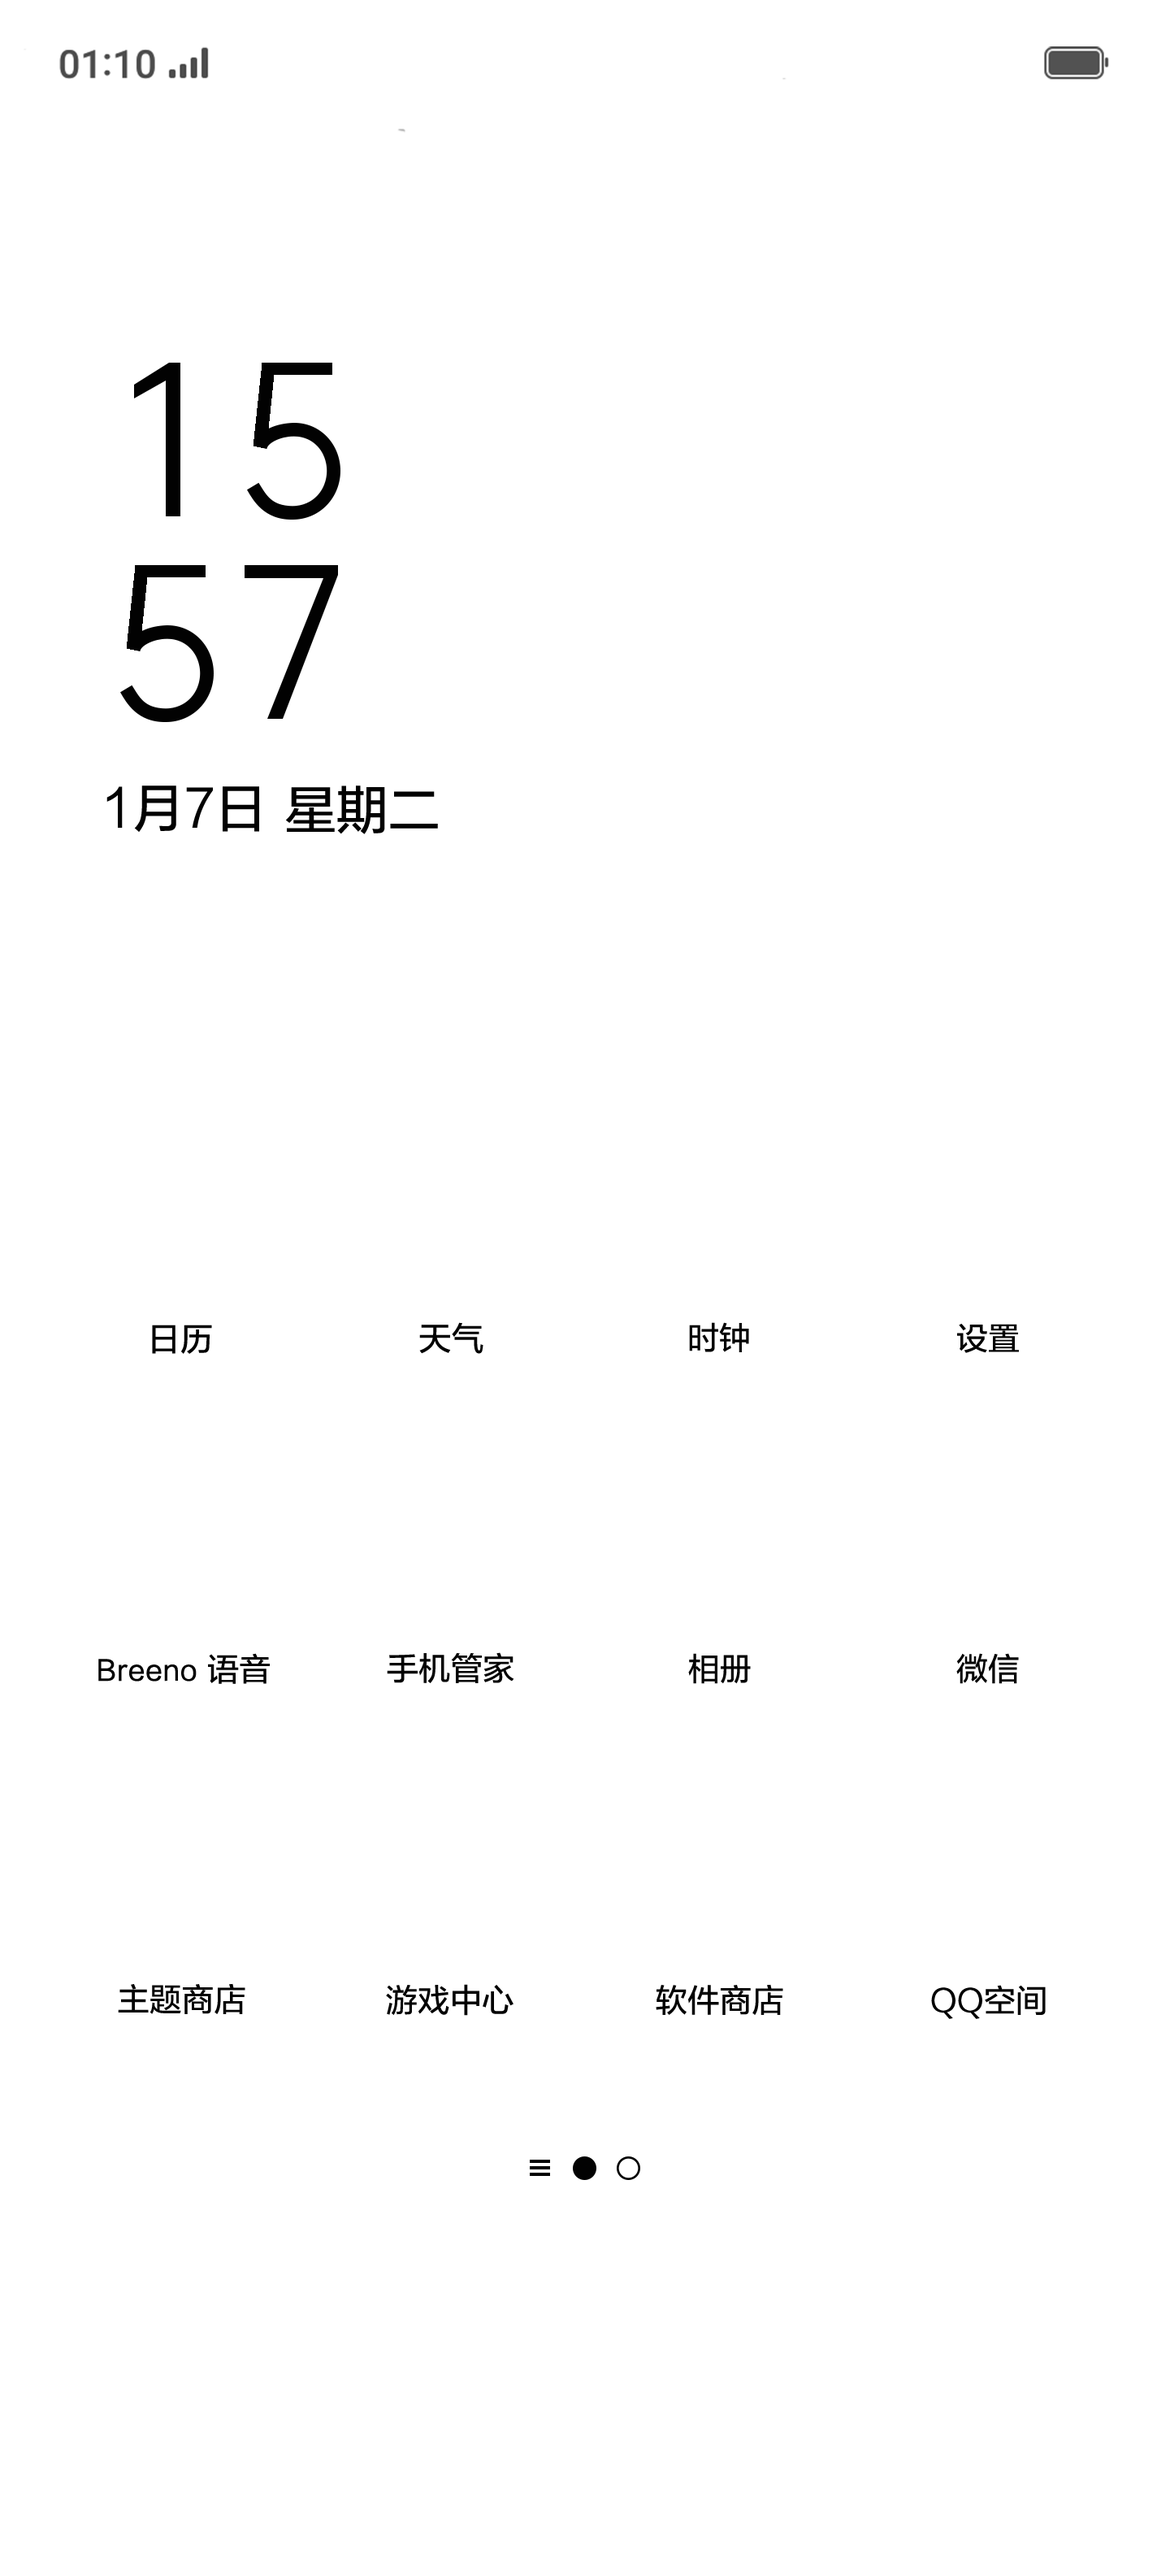
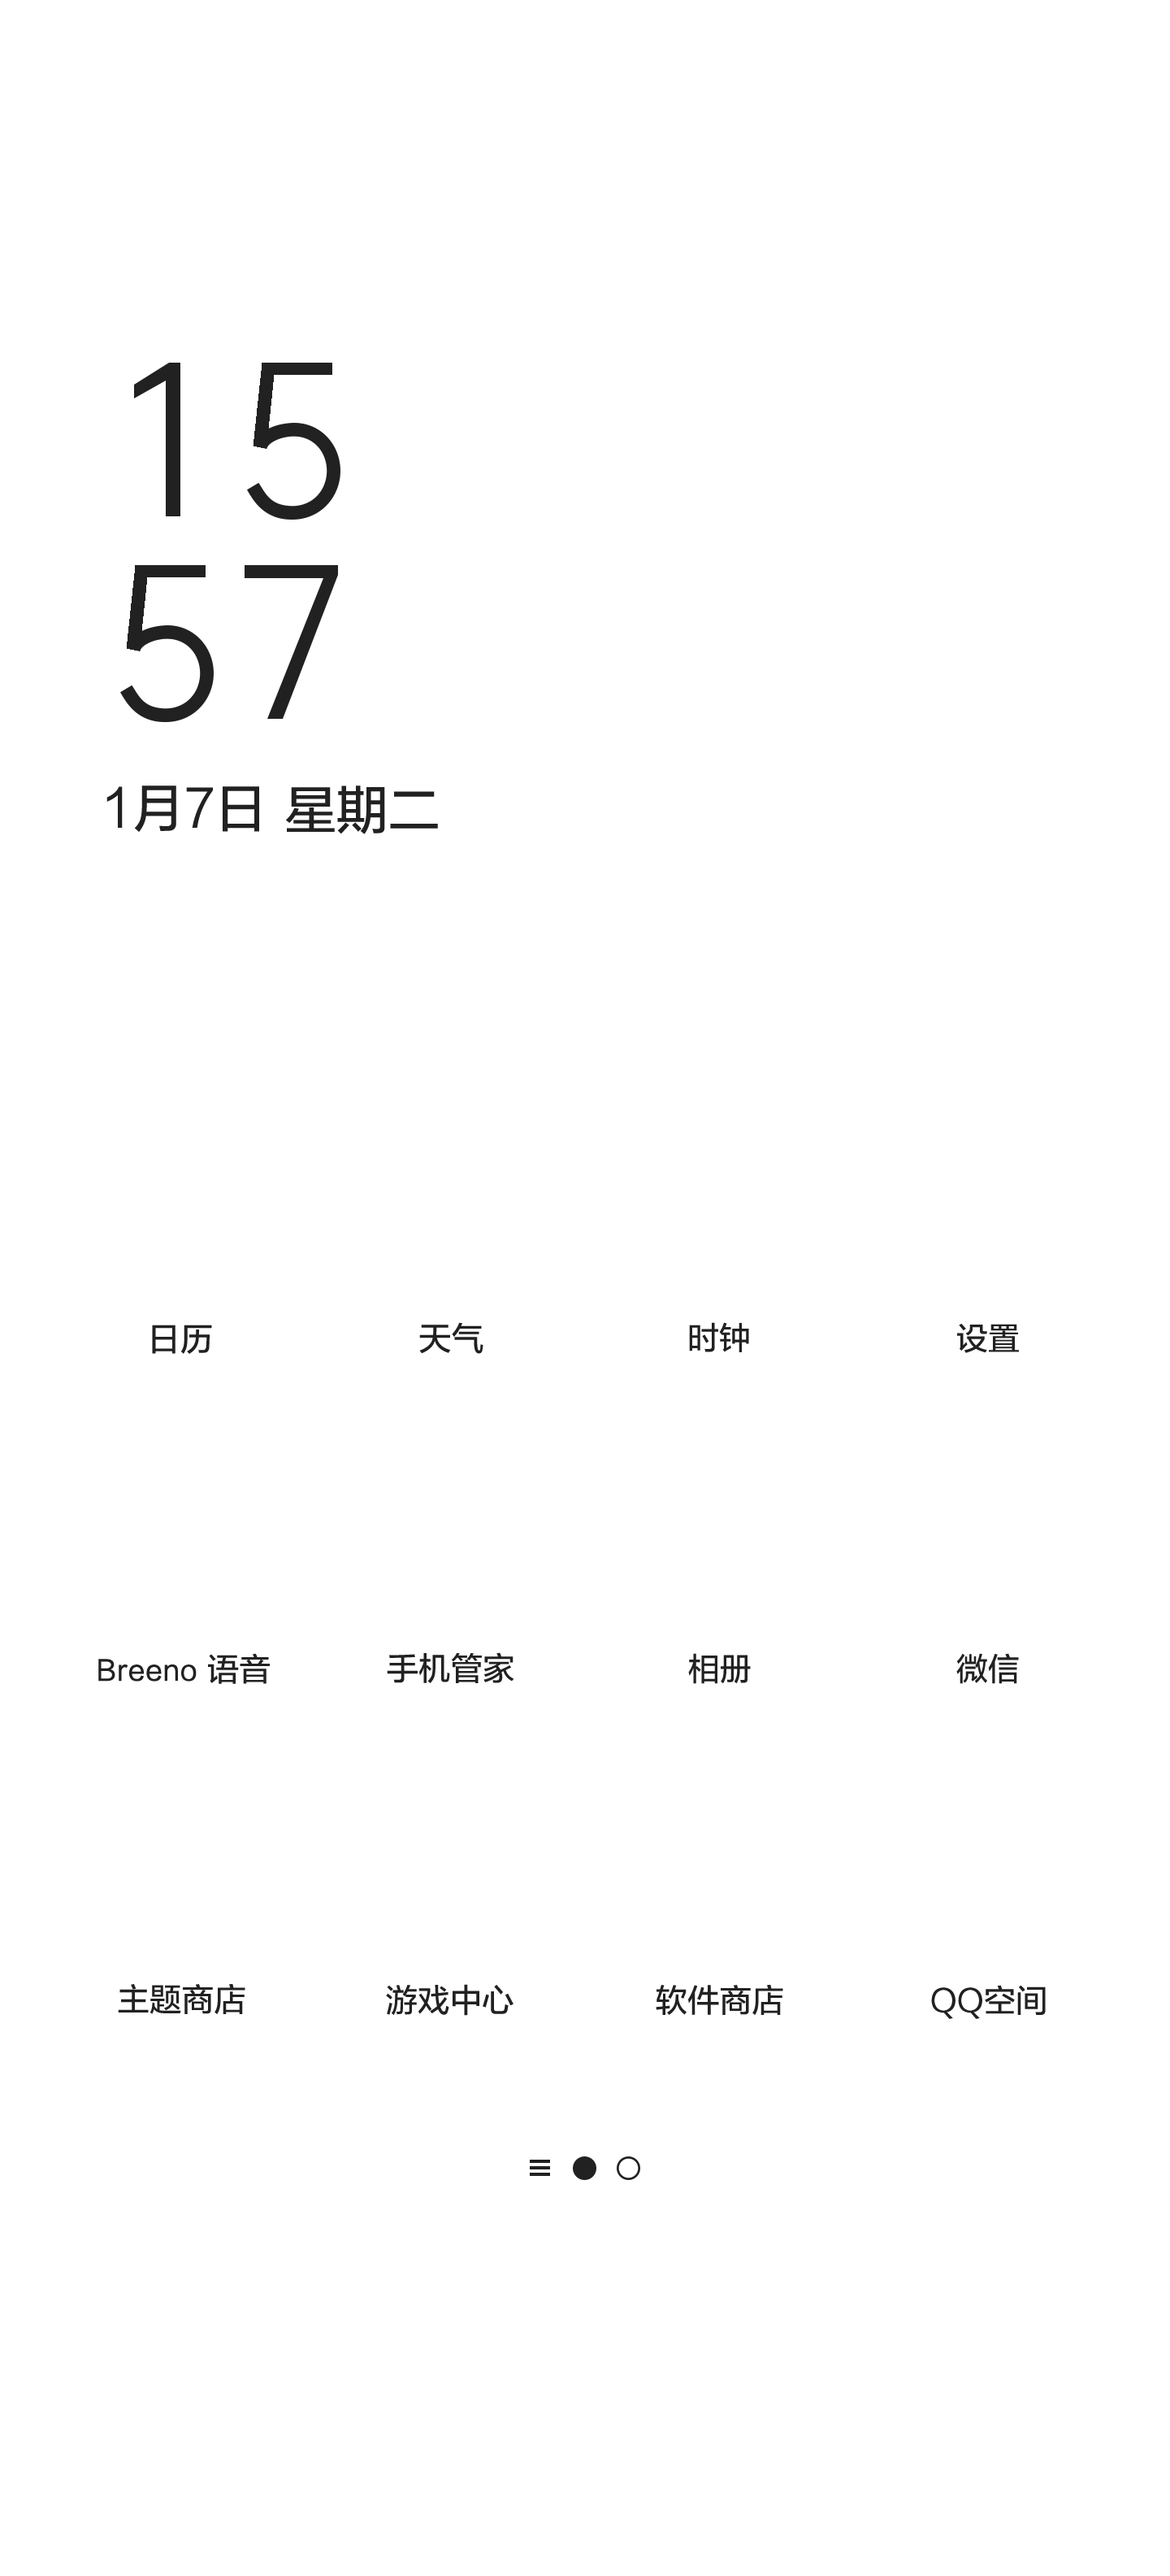
add template finish

diff --git a/icon_review/icon_review.py b/icon_review/icon_review.py
@@ -11,13 +11,14 @@ import platform
 default_bg_file = os.path.join(os.getcwd() , 'bg')
 default_icons_file = os.path.join(os.getcwd() , 'icons')
 default_res_file = os.path.join(os.getcwd() , 'res')
-default_icons_conf_file = os.path.join(os.getcwd() , 'icons.conf')
+default_icons_conf_file = os.path.join(os.getcwd() , 'iconsx3.conf')
 default_output_file = os.path.join(os.getcwd() , 'output')
 
 bg_list = []
 icons_list = []
 conf_list = []
 system_color=''
+all_size_arr = [(1080,1920),(1080,2160),(1080,2280),(1080,2340),(1080,2400),(1440,3168)]
 
 
 
@@ -50,8 +51,8 @@ def readContentFromFileByLine( path ):
 	else:
 		arr = content.split('\n')
 	for item in arr:
-		if item.find("=") >= 0 :
-			listArr.append(item)
+		if item != '' and not item.startswith('#') and  item.find("=") >= 0 :
+			listArr.append(os.path.join(default_icons_file , item.split('=')[1] ))
 	return listArr
 
 def getImageSize(path):
@@ -65,7 +66,7 @@ def optByConf( ):
 	printArr = []
 
 	for item in conf_list:
-		# print "item:" + item 
+		print "item:" + item 
 		filePath = os.path.join(default_icons_file , item.split('=')[1] )
 		print "filePath:" + filePath
 		if os.path.exists(filePath):
@@ -149,6 +150,7 @@ def loadIconPositionConf(size):
 
 
 def isWindows():
+	return False
 	platformStr = platform.platform()
 	print platformStr
 	if platformStr.find("windows")>=0 or platformStr.find("Windows") >=0 :
@@ -160,13 +162,12 @@ def isWindows():
 
 
 def iconPaste(targetObj,outputFileName ,isFirst,size):
-	# print "icon:" + icons_list[0]		# icon.show()
-	# targetObj = combineImg_New( targetObj["img"].convert("RGBA")  ,Image.open(icons_list[0]).convert("RGBA"), item ,(200,2900) ,(iconPositionConf['icon_size'],iconPositionConf['icon_size']) )
-	# # targetObj = combineImg(Image.open(bgPath) ,  icon, item ,'')
-	# targetObj = combineImg_New( targetObj["img"].convert("RGBA")  ,Image.open(icons_list[1]).convert("RGBA"), item ,(200+330*1,2900) ,(iconPositionConf['icon_size'],iconPositionConf['icon_size']) )
-	# targetObj = combineImg_New( targetObj["img"].convert("RGBA")  ,Image.open(icons_list[3]).convert("RGBA"), item ,(200+330*2,2900) ,(iconPositionConf['icon_size'],iconPositionConf['icon_size']) )
-	# targetObj = combineImg_New( targetObj["img"].convert("RGBA")  ,Image.open(icons_list[4]).convert("RGBA"), item ,(200+330*4,2900) ,(iconPositionConf['icon_size'],iconPositionConf['icon_size']) )
-
+	# 根据分辨率读取iconconfig
+	global icons_list
+	if size[1] == 3168:
+		icons_list = readContentFromFileByLine(os.path.join(os.getcwd(),'iconsx3.conf'))
+	else:
+		icons_list = readContentFromFileByLine(os.path.join(os.getcwd(),'iconsx4.conf'))
 	iconPositionConf = loadIconPositionConf(size)
 
 	start_width = iconPositionConf['start_width']
@@ -181,35 +182,57 @@ def iconPaste(targetObj,outputFileName ,isFirst,size):
 	if isFirst:
 		for i in range(4,8):
 			targetObj = combineImg_New( targetObj["img"].convert("RGBA")  ,Image.open(icons_list[i]).convert("RGBA"), outputFileName ,(start_width+margin_left*(i-4),iconPositionConf['p1_l1_y']) ,(iconPositionConf['icon_size'],iconPositionConf['icon_size']) )
-
 	if isFirst:
 		for i in range(8,12):
 			targetObj = combineImg_New( targetObj["img"].convert("RGBA")  ,Image.open(icons_list[i]).convert("RGBA"), outputFileName ,(start_width+margin_left*(i-8),iconPositionConf['p1_l2_y']) ,(iconPositionConf['icon_size'],iconPositionConf['icon_size']) )
 	if isFirst:
 		for i in range(12,16):
 			targetObj = combineImg_New( targetObj["img"].convert("RGBA")  ,Image.open(icons_list[i]).convert("RGBA"), outputFileName ,(start_width+margin_left*(i-12),iconPositionConf['p1_l3_y']) ,(iconPositionConf['icon_size'],iconPositionConf['icon_size']) )
+	
+	if size[1] == 3168:
+		# 第二页
+		if not isFirst:
+			for i in range(16,20):
+				targetObj = combineImg_New( targetObj["img"].convert("RGBA")  ,Image.open(icons_list[i]).convert("RGBA"), outputFileName ,(start_width+margin_left*(i-16),iconPositionConf['p2_l1_y']) ,(iconPositionConf['icon_size'],iconPositionConf['icon_size']) )
+		if not isFirst:
+			for i in range(20,24):
+				targetObj = combineImg_New( targetObj["img"].convert("RGBA")  ,Image.open(icons_list[i]).convert("RGBA"), outputFileName ,(start_width+margin_left*(i-20),iconPositionConf['p2_l2_y']) ,(iconPositionConf['icon_size'],iconPositionConf['icon_size']) )
+		if not isFirst:
+			for i in range(24,28):
+				targetObj = combineImg_New( targetObj["img"].convert("RGBA")  ,Image.open(icons_list[i]).convert("RGBA"), outputFileName ,(start_width+margin_left*(i-24),iconPositionConf['p2_l3_y']) ,(iconPositionConf['icon_size'],iconPositionConf['icon_size']) )
+		if not isFirst:
+			for i in range(28,32):
+				targetObj = combineImg_New( targetObj["img"].convert("RGBA")  ,Image.open(icons_list[i]).convert("RGBA"), outputFileName ,(start_width+margin_left*(i-28),iconPositionConf['p2_l4_y']) ,(iconPositionConf['icon_size'],iconPositionConf['icon_size']) )
 
 
-	# 第二页
-	if not isFirst:
-		for i in range(16,20):
-			targetObj = combineImg_New( targetObj["img"].convert("RGBA")  ,Image.open(icons_list[i]).convert("RGBA"), outputFileName ,(start_width+margin_left*(i-16),iconPositionConf['p2_l1_y']) ,(iconPositionConf['icon_size'],iconPositionConf['icon_size']) )
-	if not isFirst:
-		for i in range(20,24):
-			targetObj = combineImg_New( targetObj["img"].convert("RGBA")  ,Image.open(icons_list[i]).convert("RGBA"), outputFileName ,(start_width+margin_left*(i-20),iconPositionConf['p2_l2_y']) ,(iconPositionConf['icon_size'],iconPositionConf['icon_size']) )
-	if not isFirst:
-		for i in range(24,28):
-			targetObj = combineImg_New( targetObj["img"].convert("RGBA")  ,Image.open(icons_list[i]).convert("RGBA"), outputFileName ,(start_width+margin_left*(i-24),iconPositionConf['p2_l3_y']) ,(iconPositionConf['icon_size'],iconPositionConf['icon_size']) )
-	if not isFirst:
-		for i in range(28,32):
-			targetObj = combineImg_New( targetObj["img"].convert("RGBA")  ,Image.open(icons_list[i]).convert("RGBA"), outputFileName ,(start_width+margin_left*(i-28),iconPositionConf['p2_l4_y']) ,(iconPositionConf['icon_size'],iconPositionConf['icon_size']) )
+	else:
+		if isFirst:
+			for i in range(16,20):
+				targetObj = combineImg_New( targetObj["img"].convert("RGBA")  ,Image.open(icons_list[i]).convert("RGBA"), outputFileName ,(start_width+margin_left*(i-16),iconPositionConf['p1_l4_y']) ,(iconPositionConf['icon_size'],iconPositionConf['icon_size']) )
+		
+
+		# 第二页
+		if not isFirst:
+			for i in range(20,24):
+				targetObj = combineImg_New( targetObj["img"].convert("RGBA")  ,Image.open(icons_list[i]).convert("RGBA"), outputFileName ,(start_width+margin_left*(i-20),iconPositionConf['p2_l1_y']) ,(iconPositionConf['icon_size'],iconPositionConf['icon_size']) )
+		if not isFirst:
+			for i in range(24,28):
+				targetObj = combineImg_New( targetObj["img"].convert("RGBA")  ,Image.open(icons_list[i]).convert("RGBA"), outputFileName ,(start_width+margin_left*(i-24),iconPositionConf['p2_l2_y']) ,(iconPositionConf['icon_size'],iconPositionConf['icon_size']) )
+		if not isFirst:
+			for i in range(28,32):
+				targetObj = combineImg_New( targetObj["img"].convert("RGBA")  ,Image.open(icons_list[i]).convert("RGBA"), outputFileName ,(start_width+margin_left*(i-28),iconPositionConf['p2_l3_y']) ,(iconPositionConf['icon_size'],iconPositionConf['icon_size']) )
+		if not isFirst:
+			for i in range(32,36):
+				targetObj = combineImg_New( targetObj["img"].convert("RGBA")  ,Image.open(icons_list[i]).convert("RGBA"), outputFileName ,(start_width+margin_left*(i-32),iconPositionConf['p2_l4_y']) ,(iconPositionConf['icon_size'],iconPositionConf['icon_size']) )
+
+
 
 
 
 
 	return targetObj;
 
-def workWithSingleSize(bgPath ,resFilePath  ,width , height ):
+def workWithSingleSize(bgPath ,resFilePath  ,width , height ,bg ):
 
 	path = os.path.join(resFilePath , "%dx%d" %(height ,width ) , system_color.get() )
 
@@ -219,7 +242,9 @@ def workWithSingleSize(bgPath ,resFilePath  ,width , height ):
 	for i in range(0,len(resList)):
 		item = resList[i]
 		# 背景和前置文字组合
-		targetObj = combineImg_New(Image.open(bgPath) , Image.open(os.path.join(path ,item )) , item ,'','')
+		if bg == '':
+			bg = Image.open(bgPath)
+		targetObj = combineImg_New(bg , Image.open(os.path.join(path ,item )) , item ,'','')
 
 		# icon和 以上组合
 		print "item:" + item 
@@ -245,25 +270,86 @@ def workWithSingleSize(bgPath ,resFilePath  ,width , height ):
 		targetObj['img'].save(   outputFilePath   )
 
 
+def findMostRelatedSize(existsSizeArr  ,size):
+	size = size[0]*size[1]
+	tmparr = {}
+	minSize = {};
+	for item in existsSizeArr:
+		tmparr['%dx%d' %(item[0],item[1])] = item[0]*item[1]
+	for (key,value) in tmparr.items():
+		cha = abs(value - size)
+		if len(minSize) ==0:
+			minSize['name'] = key
+			minSize['cha'] = cha
+		else:
+			if cha < minSize['cha']:
+				minSize['name'] = key
+				minSize['cha'] = cha
+	print 'minSize[name]:' + minSize['name'] + (',minSize[cha]:%d' % minSize['cha'])
+	return ( int(minSize['name'].split('x')[0])  ,int(minSize['name'].split('x')[1]) )
 
 def startWork():
+	size_arr = []
 	print 'start Work...'
 	for item in bg_list:
 		bgPath = os.path.join(default_bg_file , item )
 		size = getImageSize(bgPath)
+		size_arr.append(size)
 		# 查看res中是否存在此分辨率的资源文件
 		resFileName = "%dx%d" %(size[1] , size[0])
 		# print resFileName
 		if os.path.exists(os.path.join(default_res_file ,resFileName)):
-			workWithSingleSize( bgPath ,default_res_file , size[0] , size[1]   )
+			workWithSingleSize( bgPath ,default_res_file , size[0] , size[1] , '' )
 		else:
 			print resFileName + " not exists ..."
 			continue
 
+	print 'start match bg img  , and cut ...'
+	print 'start clean all_size_arr'
+	print all_size_arr
+	for item in size_arr:
+		print item 
+		print 'workfinish and remove'
+		all_size_arr.remove(item )
+	for item in all_size_arr:
+		size = findMostRelatedSize(size_arr , item)
+		print size 
+		bgFilePath = getBgFromSize(size);
+		if bgFilePath == 'fail':
+			print 'can not find matched bg file ... continue'
+			continue
+		cuttedImg = cutPic( Image.open( bgFilePath ) ,item)
+		workWithSingleSize( '' ,default_res_file , cuttedImg.size[0] , cuttedImg.size[1]  ,  cuttedImg )
 
 	tkMessageBox.showinfo( "结果提示", "成功" )
 
+def getBgFromSize( size ):
+	print 'getBgFromSize,size:'
+	print size 
+	for item in bg_list:
+		path = os.path.join(default_bg_file  , item )
+		print 'path:' + path 
+		img = Image.open(path)
+		print img.size 
+		if img.size == size :
+			print 'find matched bg ,bgpath' + path 
+			return path
+	return 'fail'
 
+def cutPic(orginPic  , size ):
+	orginSize = orginPic.size
+	width = orginSize[0] - size[0] 
+	height = orginSize[1] - size[1]
+	x = (orginSize[0] - size[0]) / 2
+	y = (orginSize[1] - size[1]) / 2
+	cutSize =(x,y,size[0] + x,size[1] + y )
+	print 'cutSize:'
+	print cutSize 
+	orginPic = orginPic.crop(cutSize)
+	# orginPic.show()
+	print 'cutted pic size:'
+	print orginPic.size
+	return orginPic
 
 
 top = Tkinter.Tk()
@@ -282,17 +368,14 @@ iconsFilePathEntry = Tkinter.Entry(top  )
 iconsFilePathEntry.pack()
 
 
-iconsConfigFilePathLabel = Tkinter.Label(top,text="icons筛选配置文件路径（不填默认当前文件夹下icons.conf）")
-iconsConfigFilePathLabel.pack()
+# iconsConfigFilePathLabel = Tkinter.Label(top,text="icons筛选配置文件路径（不填默认当前文件夹下icons.conf）")
+# iconsConfigFilePathLabel.pack()
 
-iconsConfigFilePathEntry = Tkinter.Entry(top  )
-iconsConfigFilePathEntry.pack()
+# iconsConfigFilePathEntry = Tkinter.Entry(top  )
+# iconsConfigFilePathEntry.pack()
 
 outputPathLabel = Tkinter.Label(top,text="输出文件夹目录（不填则默认当前文件夹下output文件夹）")
 outputPathLabel.pack()
-
-
-
 outputPathEntry = Tkinter.Entry(top  )
 outputPathEntry.pack()
 
@@ -302,6 +385,8 @@ system_color=var
 # l = Tkinter.Label(top, bg='yellow', width=20, text='empty')
 l = Tkinter.Label(top,  text='请选择文字颜色（A、白色 B、黑色）默认白色')
 l.pack()
+
+
 def print_selection():
 	global system_color
 	system_color = var
@@ -338,34 +423,34 @@ def nextStepButtonAction():
 			listb.insert(0,item)
 		listb.pack()
 
-		listb2Label = Tkinter.Label(top,text="icons筛选配置文件内容")
-		listb2Label.pack()
-		if iconsConfigFilePathEntry.get() == '':
-			strr = default_icons_conf_file
-		else:
-			strr = iconsConfigFilePathEntry.get()
-		default_icons_conf_file = strr 
-		configLine = readContentFromFileByLine(strr)
-		conf_list = configLine
-		listb2  = Tkinter.Listbox(top)  
-		for item in configLine:
-			# listb1.insert(0,os.path.join(iconsFilePathEntry.get() ,item))
-			listb2.insert(0,item)
-		listb2.pack()
+		# listb2Label = Tkinter.Label(top,text="icons筛选配置文件内容")
+		# listb2Label.pack()
+		# if iconsConfigFilePathEntry.get() == '':
+		# 	strr = default_icons_conf_file
+		# else:
+		# 	strr = iconsConfigFilePathEntry.get()
+		# default_icons_conf_file = strr 
+		# configLine = readContentFromFileByLine(default_icons_conf_file)
+		# conf_list = configLine
+		# listb2  = Tkinter.Listbox(top)  
+		# for item in configLine:
+		# 	# listb1.insert(0,os.path.join(iconsFilePathEntry.get() ,item))
+		# 	listb2.insert(0,item)
+		# listb2.pack()
 
-		listb1Label = Tkinter.Label(top,text="icons扫描结果")
-		listb1Label.pack()
-		if iconsFilePathEntry.get() == '':
-			strr = default_icons_file
-		else:
-			strr = iconsFilePathEntry.get()
-		default_icons_file = strr
+		# listb1Label = Tkinter.Label(top,text="icons扫描结果")
+		# listb1Label.pack()
+		# if iconsFilePathEntry.get() == '':
+		# 	strr = default_icons_file
+		# else:
+		# 	strr = iconsFilePathEntry.get()
+		# default_icons_file = strr
 		# icons_list = iconsList
-		listb1  = Tkinter.Listbox(top)  
-		for item in optByConf():
-			# listb1.insert(0,os.path.join(iconsFilePathEntry.get() ,item))
-			listb1.insert(0,item)
-		listb1.pack()
+		# listb1  = Tkinter.Listbox(top)  
+		# for item in optByConf():
+		# 	# listb1.insert(0,os.path.join(iconsFilePathEntry.get() ,item))
+		# 	listb1.insert(0,item)
+		# listb1.pack()
 
 		strvar.set("确认输出")
 	else:

diff --git a/icon_review/testcrop.py b/icon_review/testcrop.py
@@ -1,0 +1,18 @@
+#!/usr/bin/python
+# -*- coding: UTF-8 -*-
+ 
+import Tkinter
+import tkMessageBox
+import os
+import codecs
+from PIL import Image
+import platform
+
+
+img = Image.open('/Users/mac/Documents/github_repository/Huawei_theme_package_utils_v9.x/icon_review/bg/bg_1440x3168.jpg')
+print img.size
+img.show()
+img = img.crop((0,200,1080,1920+200))
+img.show()
+print img.size
+
